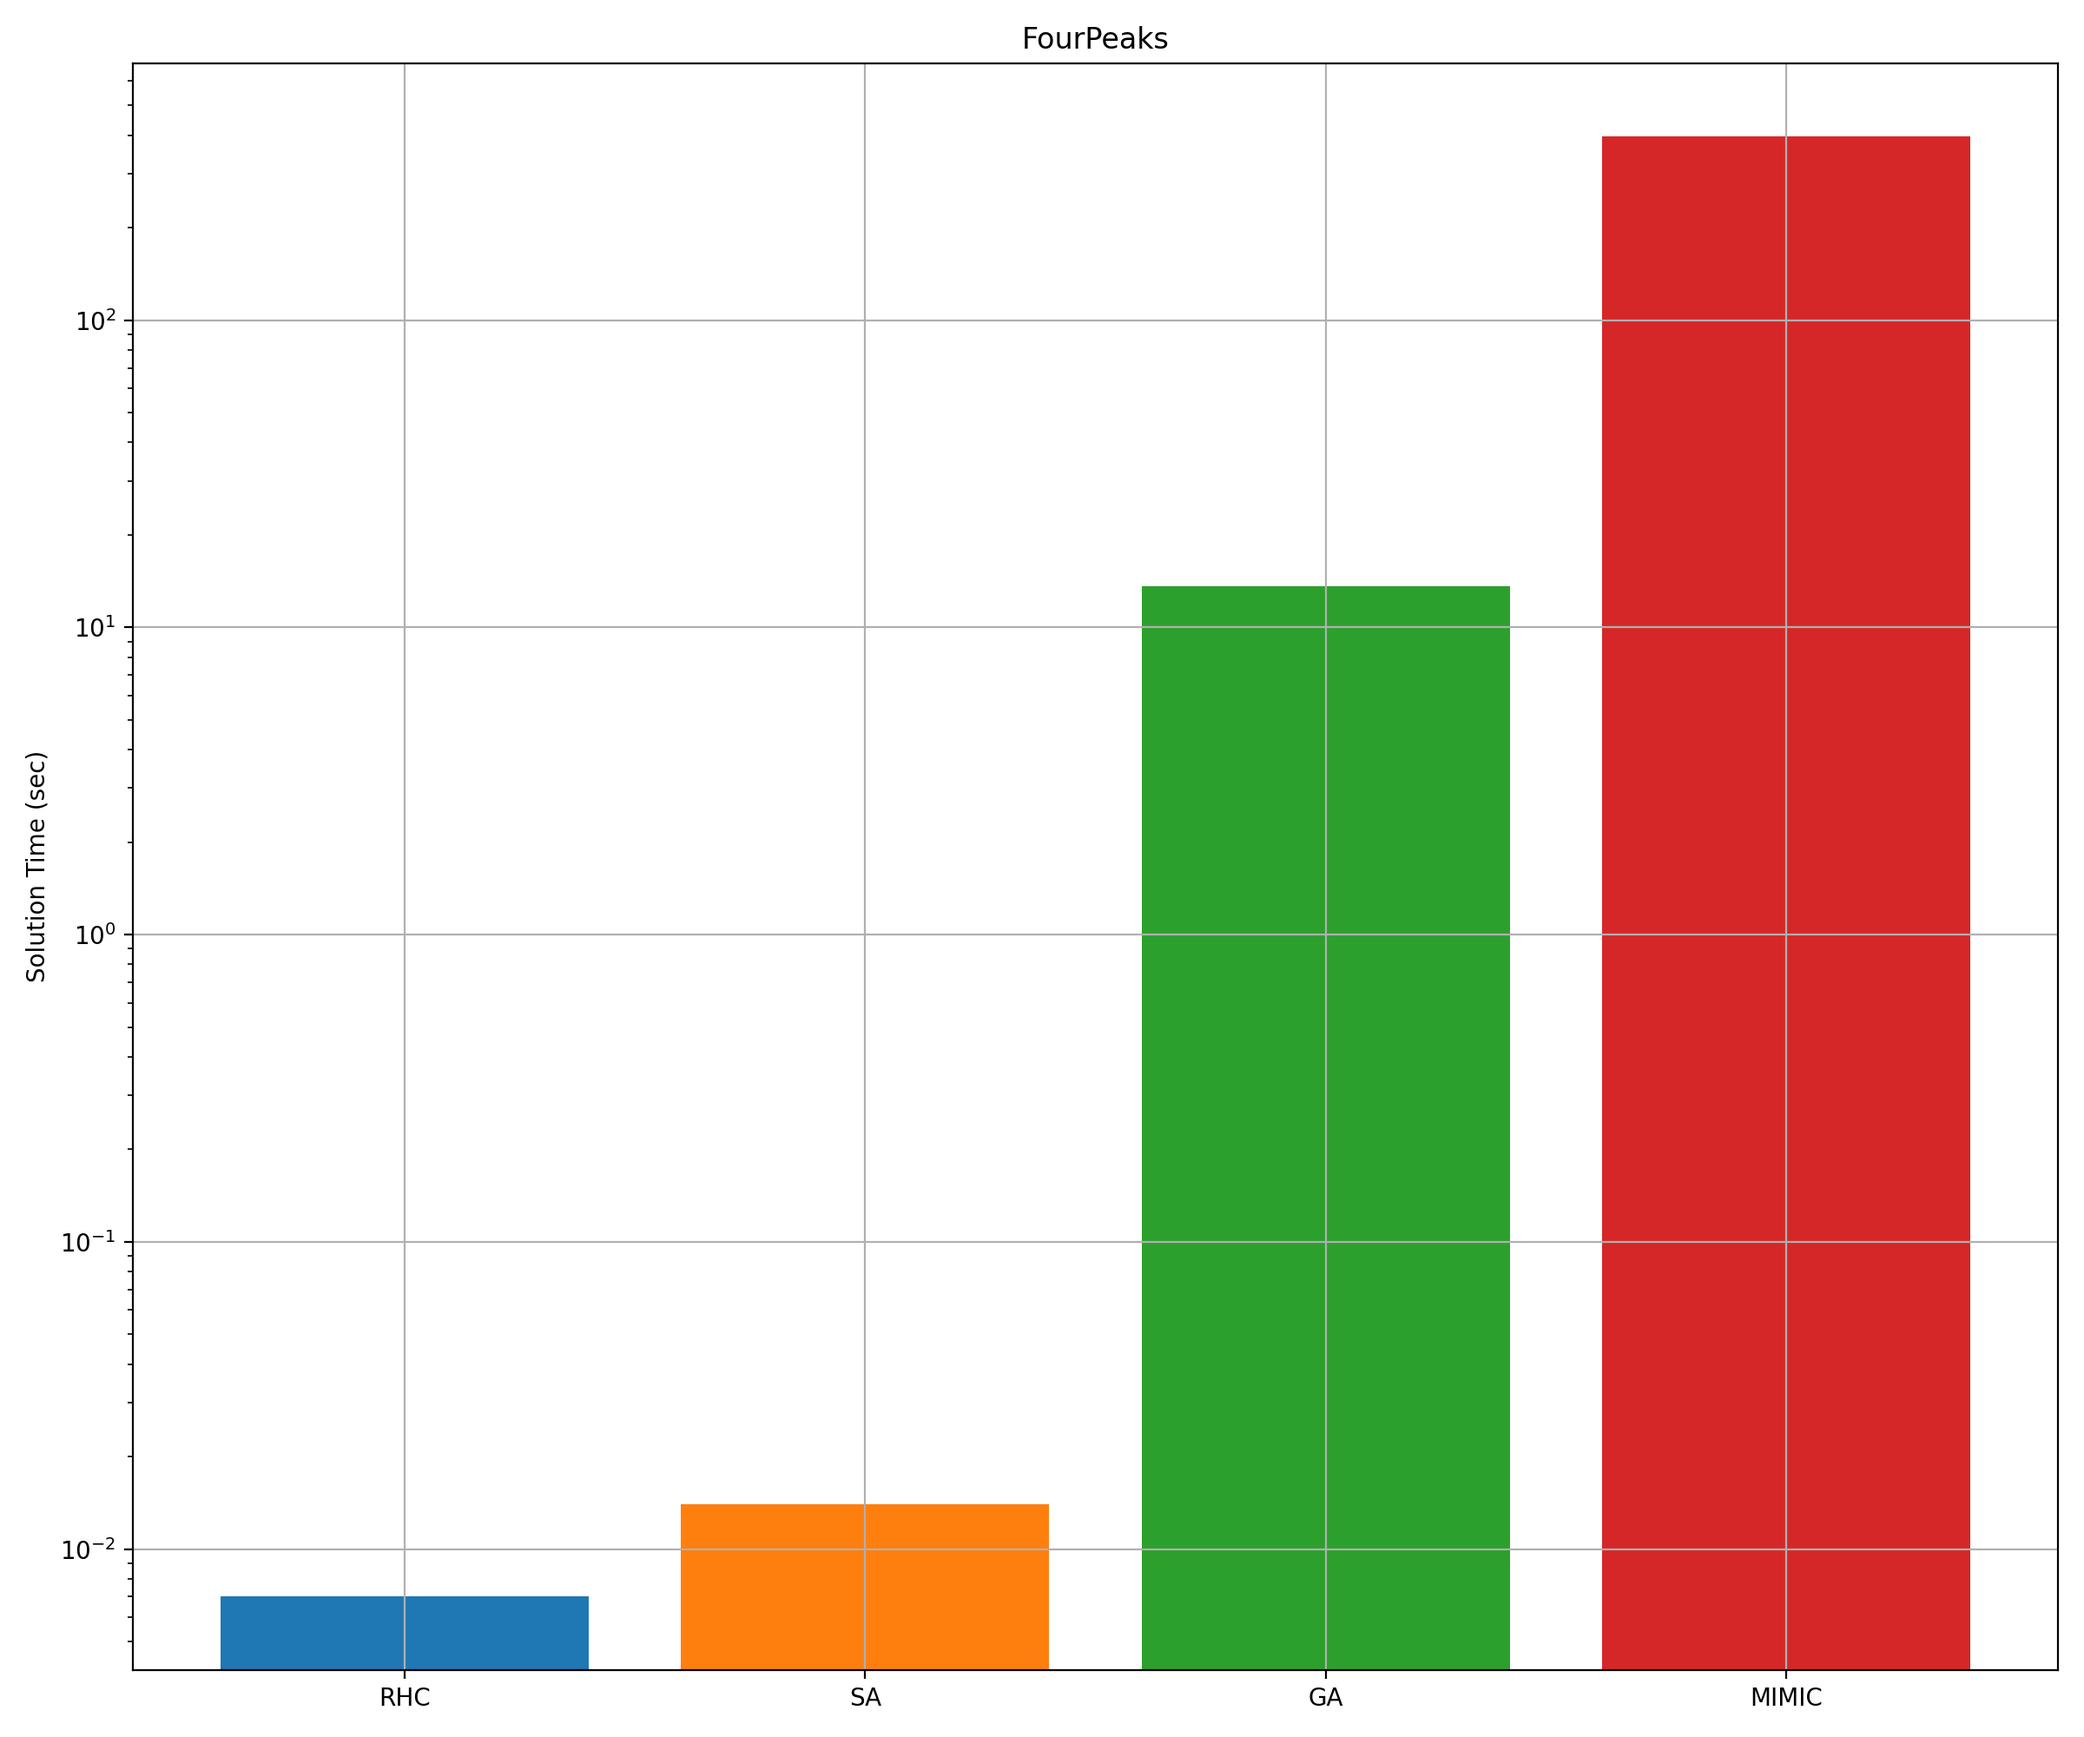
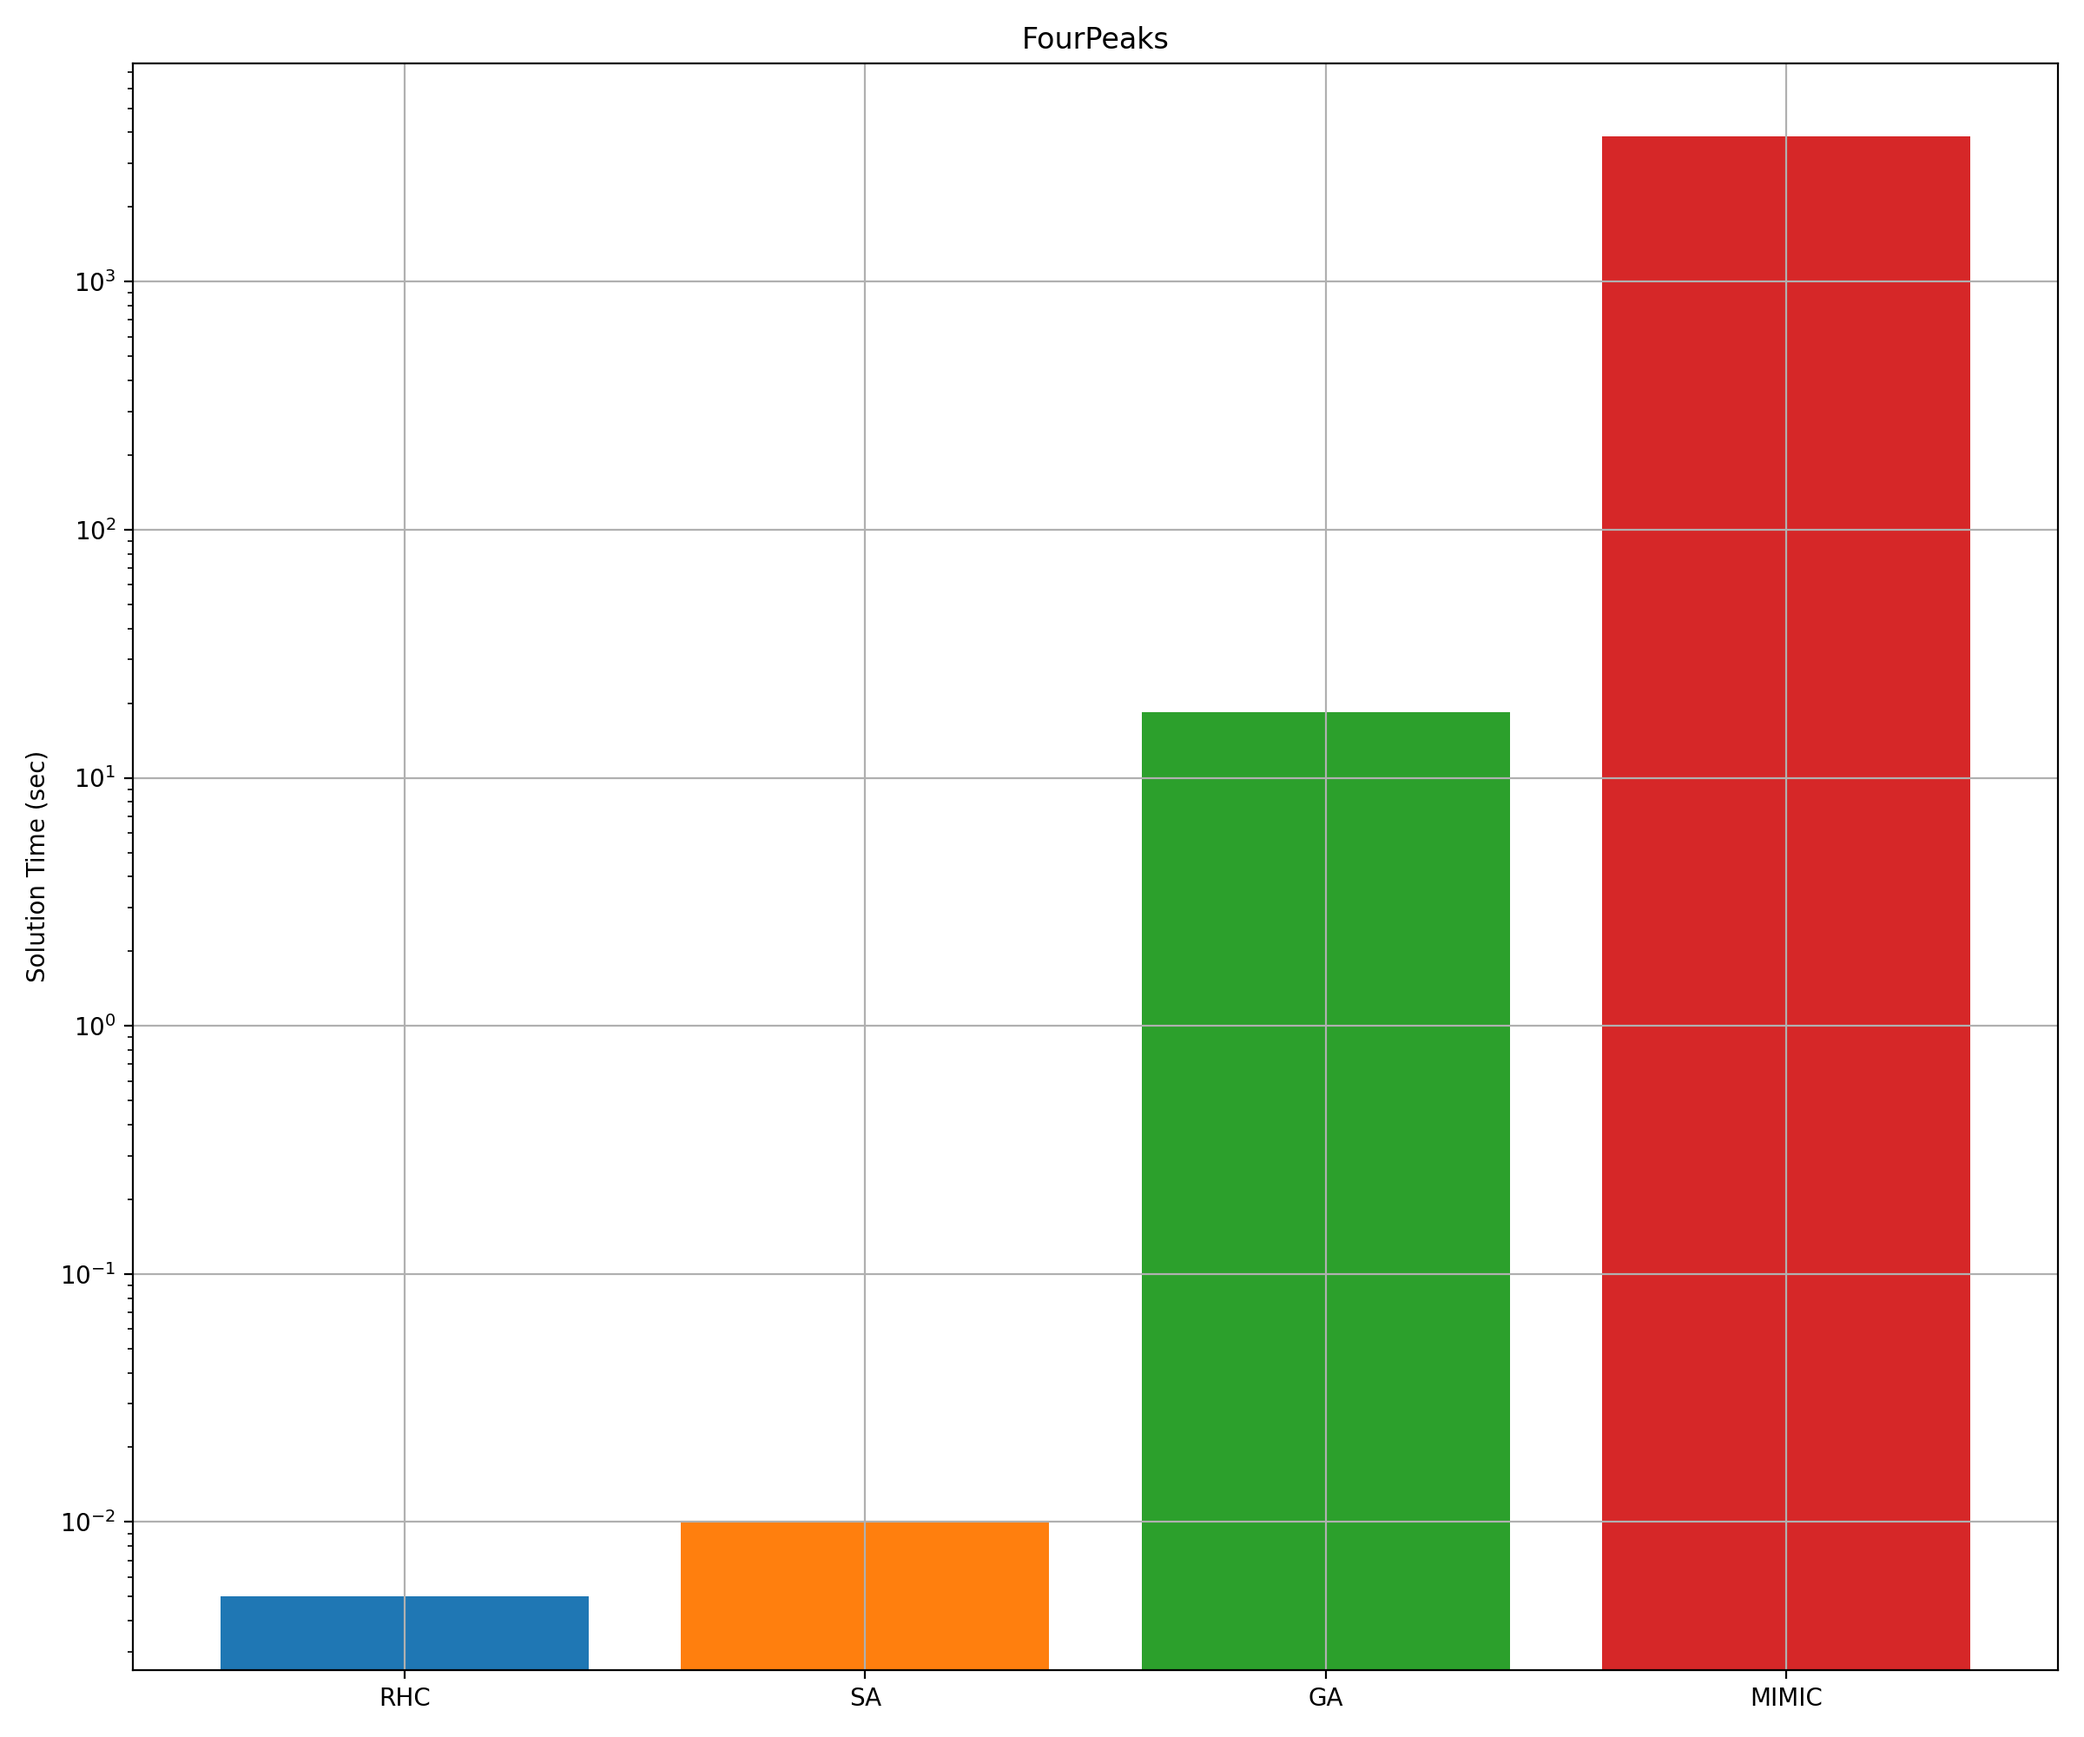
add flip flop

diff --git a/Assignment2/assignment_2.py b/Assignment2/assignment_2.py
@@ -108,6 +108,7 @@ def runProblem(problem,title: str, **kwargs):
     pop_size = int(kwargs['pop_size'])
     mutation_prob = kwargs['mutation_prob']
     keep_pct = kwargs['keep_pct']
+    
     ##################################
     # Solve using each algorithm
     ##################################
@@ -345,7 +346,7 @@ print('######################################################################')
 print('Random Bit Match')
 print('######################################################################')
 
-bits = 50
+bits = 100
 n_bits = 4
 mask = np.random.randint(0,n_bits,bits)
 ## Fitness function returns successively higher values for multiple adjacent matched bits
@@ -390,54 +391,83 @@ problem = DiscreteOpt(length = bits, fitness_fn = fitness, maximize=True, max_va
 ##################################
 kwargs = {
         'restarts':restarts,
-        'max_iters':max_iters,
+        'max_iters':max_iters*10,
         'max_attempts':max_attempts,
         'pop_size':bits,
         'mutation_prob':mutation_prob,
         'keep_pct':0.1,
           }
 
-# Find optimal
-vPrint('Finding optimal mimic for RBM problem...')
-experiment_name = 'RandomBitMatch'
-iteration_list = list(map(int,np.linspace(10,1000,5)))
-population_sizes = list(map(int,np.linspace(10,500,5)))
-mmc = MIMICRunner(problem=problem,
-                  experiment_name=experiment_name,
-                  output_directory=os.getcwd(),
-                  population_sizes = population_sizes,
-                  seed=seed,
-                  iteration_list = iteration_list,
-                  max_attempts=500,
-                  keep_percent_list=[0.05,0.1,0.2, 0.5, 0.75],
-                  use_fast_mimic = True)
-run_start = time.time()
-df_run_stats, df_run_curves = mmc.run()
-run_end = time.time()
-vPrint('MIMIC runner time for RBC: {run_end - run_start}')
-
-best_mimic_run = mmc.run_stats_df.iloc[np.argmax(mmc.run_stats_df['Fitness']),:]
-best_pop_size = best_mimic_run['Population Size']
-best_iters = best_mimic_run['max_iters']
-best_state = best_mimic_run['State']
-best_keep_pct = best_mimic_run['Keep Percent']
-best_state = list(map(float,best_state.replace(']','').replace('[','').replace(' ','').split(',')))
-
-kwargs['max_iters'] = best_iters
-kwargs['keep_pct'] = best_keep_pct
-kwargs['pop_size'] = best_pop_size
+# =============================================================================
+# # Find optimal
+# vPrint('Finding optimal mimic for RBM problem...')
+# experiment_name = 'RandomBitMatch'
+# iteration_list = list(map(int,np.linspace(10,1000,5)))
+# population_sizes = list(map(int,np.linspace(10,500,5)))
+# mmc = MIMICRunner(problem=problem,
+#                   experiment_name=experiment_name,
+#                   output_directory=os.getcwd(),
+#                   population_sizes = population_sizes,
+#                   seed=seed,
+#                   iteration_list = iteration_list,
+#                   max_attempts=500,
+#                   keep_percent_list=[0.05,0.1,0.2, 0.5, 0.75],
+#                   use_fast_mimic = True)
+# run_start = time.time()
+# df_run_stats, df_run_curves = mmc.run()
+# run_end = time.time()
+# vPrint('MIMIC runner time for RBC: {run_end - run_start}')
+# 
+# best_mimic_run = mmc.run_stats_df.iloc[np.argmax(mmc.run_stats_df['Fitness']),:]
+# best_pop_size = best_mimic_run['Population Size']
+# best_iters = best_mimic_run['max_iters']
+# best_state = best_mimic_run['State']
+# best_keep_pct = best_mimic_run['Keep Percent']
+# best_state = list(map(float,best_state.replace(']','').replace('[','').replace(' ','').split(',')))
+# 
+# kwargs['max_iters'] = best_iters
+# kwargs['keep_pct'] = best_keep_pct
+# kwargs['pop_size'] = best_pop_size
+# =============================================================================
 
 runProblem(problem=problem,title='RandomBitMatch',**kwargs)
 
-
+# =============================================================================
+# 
+# ###############################################################################
+# # Four Peaks Problem
+# ###############################################################################
+# print('######################################################################')
+# print('Four Peaks Problem')
+# print('######################################################################')
+# bits = 200
+# fitness = FourPeaks()
+# 
+# problem = DiscreteOpt(length = bits, fitness_fn = fitness, maximize = True, max_val = 2)
+# ##################################
+# # Solve using each algorithm
+# ##################################
+# kwargs = {
+#         'restarts':restarts,
+#         'max_iters':max_iters,
+#         'max_attempts':max_attempts,
+#         'pop_size':pop_size,
+#         'mutation_prob':mutation_prob,
+#         'keep_pct':0.1,
+#           }
+# 
+# runProblem(problem=problem,title='FourPeaks',**kwargs)
+# 
+# 
+# =============================================================================
 ###############################################################################
-# Knapsack Problem
+# Flip Flop Problem
 ###############################################################################
 print('######################################################################')
-print('Four Peaks Problem')
+print('Flip Flop Problem')
 print('######################################################################')
-bits = 100
-fitness = FourPeaks()
+bits = 200
+fitness = FlipFlop()
 
 problem = DiscreteOpt(length = bits, fitness_fn = fitness, maximize = True, max_val = 2)
 ##################################
@@ -449,76 +479,78 @@ kwargs = {
         'max_attempts':max_attempts,
         'pop_size':pop_size,
         'mutation_prob':mutation_prob,
-        'keep_pct':keep_pct,
+        'keep_pct':0.1,
           }
 
-runProblem(problem=problem,title='FourPeaks',**kwargs)
+runProblem(problem=problem,title='FlipFlop',**kwargs)
 
-
-###############################################################################
-# Knapsack Problem
-###############################################################################
-print('######################################################################')
-print('Knapsack Problem')
-print('######################################################################')
-n_items = 50
-weights = [0] # First item has zero weight and zero value
-values = [0]
-weights.extend([random.randint(1,n_items) for _ in range(n_items - 1)])
-values.extend([random.randint(0,n_items) for _ in range(n_items - 1)])
-max_weight_pct = 0.75
-weights = np.array(weights)
-values = np.array(values)
-
-# Custom Knapsack Fitness Function
-def custom_knapsack(state, weights, values, max_weight_pct):
-    """
-        State is the items to use in the knapsack.
-        Weights is the corresponding weight and values is the corresponding value
-        
-        Use with DiscreteOpt, number of states should match length and be integers
-    """
-    _w = np.ceil(max_weight_pct * np.sum(np.array(weights)))
-    #vPrint(f'Max weight: {_w}')
-    tot_weight = 0
-    tot_value = 0
-    for s in state:
-        s = int(s)
-        tot_weight += weights[s]
-        tot_value += values[s]
-    #vPrint(f'Total weight: {tot_weight}')
-    if tot_weight <= _w:
-        return tot_value
-    else:
-        return 0
-
-kwargs = {'weights':weights,
-          'values':values,
-          'max_weight_pct':max_weight_pct,
-          }
-
-fitness = CustomFitness(fitness_fn = custom_knapsack, problem_type='discrete', **kwargs)
-    
 # =============================================================================
-# fitness = Knapsack(weights = weights, values = values, max_weight_pct = max_weight_pct)
+# 
+# ###############################################################################
+# # Knapsack Problem
+# ###############################################################################
+# print('######################################################################')
+# print('Knapsack Problem')
+# print('######################################################################')
+# n_items = 50
+# weights = [0] # First item has zero weight and zero value
+# values = [0]
+# weights.extend([random.randint(1,n_items) for _ in range(n_items - 1)])
+# values.extend([random.randint(0,n_items) for _ in range(n_items - 1)])
+# max_weight_pct = 0.75
+# weights = np.array(weights)
+# values = np.array(values)
+# 
+# # Custom Knapsack Fitness Function
+# def custom_knapsack(state, weights, values, max_weight_pct):
+#     """
+#         State is the items to use in the knapsack.
+#         Weights is the corresponding weight and values is the corresponding value
+#         
+#         Use with DiscreteOpt, number of states should match length and be integers
+#     """
+#     _w = np.ceil(max_weight_pct * np.sum(np.array(weights)))
+#     #vPrint(f'Max weight: {_w}')
+#     tot_weight = 0
+#     tot_value = 0
+#     for s in state:
+#         s = int(s)
+#         tot_weight += weights[s]
+#         tot_value += values[s]
+#     #vPrint(f'Total weight: {tot_weight}')
+#     if tot_weight <= _w:
+#         return tot_value
+#     else:
+#         return 0
+# 
+# kwargs = {'weights':weights,
+#           'values':values,
+#           'max_weight_pct':max_weight_pct,
+#           }
+# 
+# fitness = CustomFitness(fitness_fn = custom_knapsack, problem_type='discrete', **kwargs)
+#     
+# # =============================================================================
+# # fitness = Knapsack(weights = weights, values = values, max_weight_pct = max_weight_pct)
+# # =============================================================================
+# 
+# problem = DiscreteOpt(length = n_items, fitness_fn = fitness, maximize=True, max_val=n_items)
+# 
+# ##################################
+# # Solve using each algorithm
+# ##################################
+# kwargs = {
+#         'restarts':restarts,
+#         'max_iters':max_iters,
+#         'max_attempts':max_attempts,
+#         'pop_size':pop_size,
+#         'mutation_prob':mutation_prob,
+#         'keep_pct':keep_pct,
+#           }
+# 
+# runProblem(problem=problem,title='Knapsack',**kwargs)
+# 
 # =============================================================================
-
-problem = DiscreteOpt(length = n_items, fitness_fn = fitness, maximize=True, max_val=n_items)
-
-##################################
-# Solve using each algorithm
-##################################
-kwargs = {
-        'restarts':restarts,
-        'max_iters':max_iters,
-        'max_attempts':max_attempts,
-        'pop_size':pop_size,
-        'mutation_prob':mutation_prob,
-        'keep_pct':keep_pct,
-          }
-
-runProblem(problem=problem,title='Knapsack',**kwargs)
-
 
 ###############################################################################
 ###############################################################################
